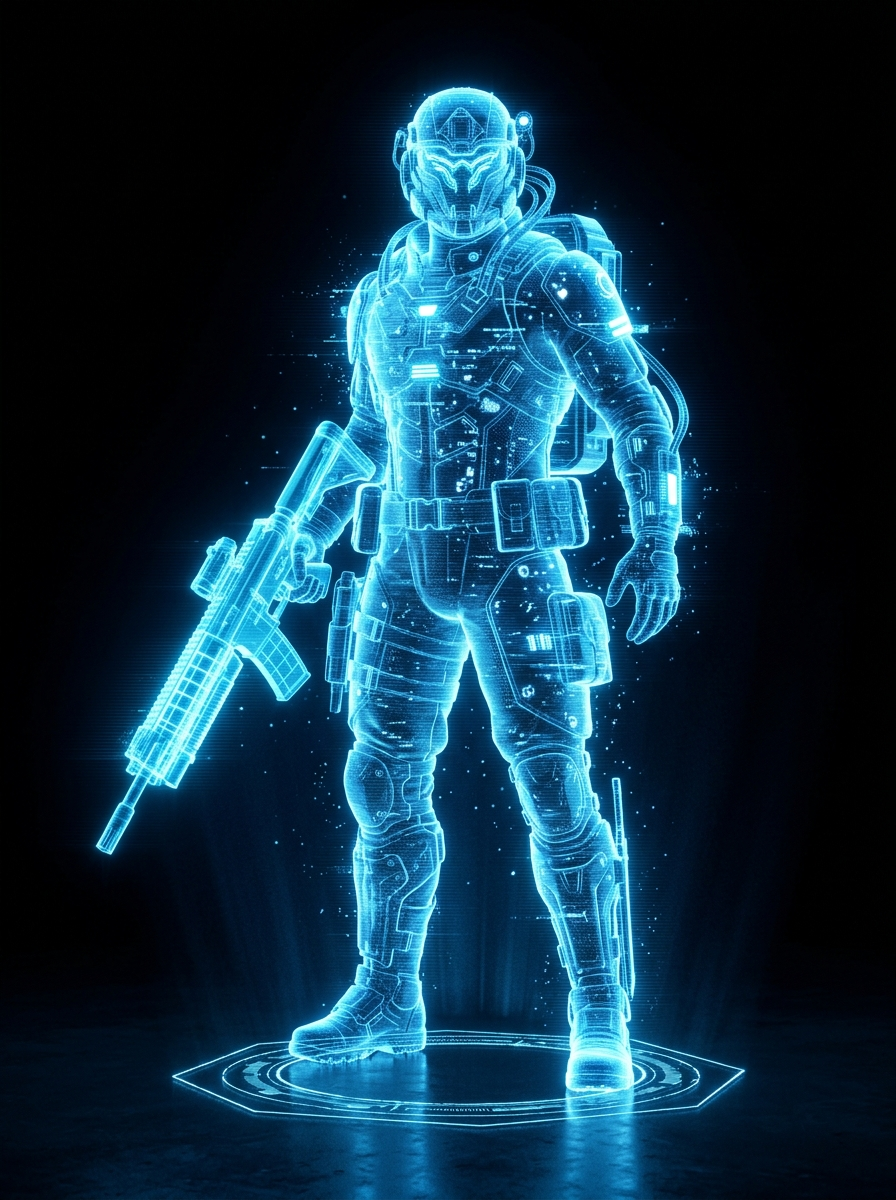
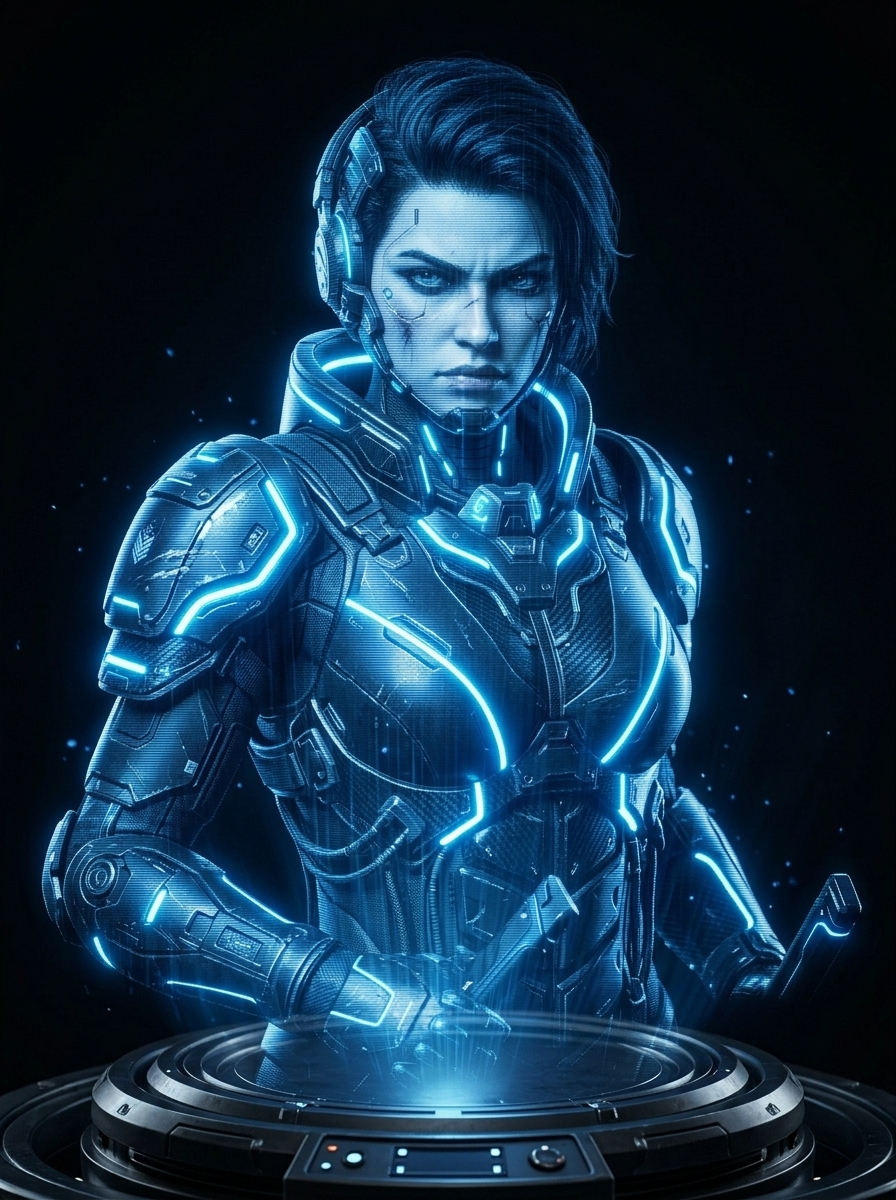
Fix hologram identity mismatch and speed up rotation

diff --git a/styles.css b/styles.css
@@ -322,7 +322,7 @@ header p {
         sepia(100%) hue-rotate(150deg) saturate(300%) contrast(150%) brightness(1.2);
     opacity: 0.8;
     mix-blend-mode: screen;
-    animation: holo-flicker 2s infinite, holo-spin 10s linear infinite;
+    animation: holo-flicker 2s infinite, holo-spin 4s linear infinite;
     transform-style: preserve-3d;
 }
 
@@ -352,9 +352,8 @@ header p {
 }
 
 @keyframes holo-spin {
-    0% { transform: rotateY(-15deg); }
-    50% { transform: rotateY(15deg); }
-    100% { transform: rotateY(-15deg); }
+    0% { transform: rotateY(0deg); }
+    100% { transform: rotateY(360deg); }
 }
 
 .hologram-base {

diff --git a/index.html b/index.html
@@ -89,7 +89,7 @@
                     </div>
                 </div>
             </div>
-            <button class="hologram-btn" onclick="showHologram('assets/holo_mage_holo.jpg', 'Vex')">
+            <button class="hologram-btn" onclick="showHologram('assets/holo_mage.jpg', 'Vex')">
                 <span class="icon">🌀</span> Hologram
             </button>
         </div>
